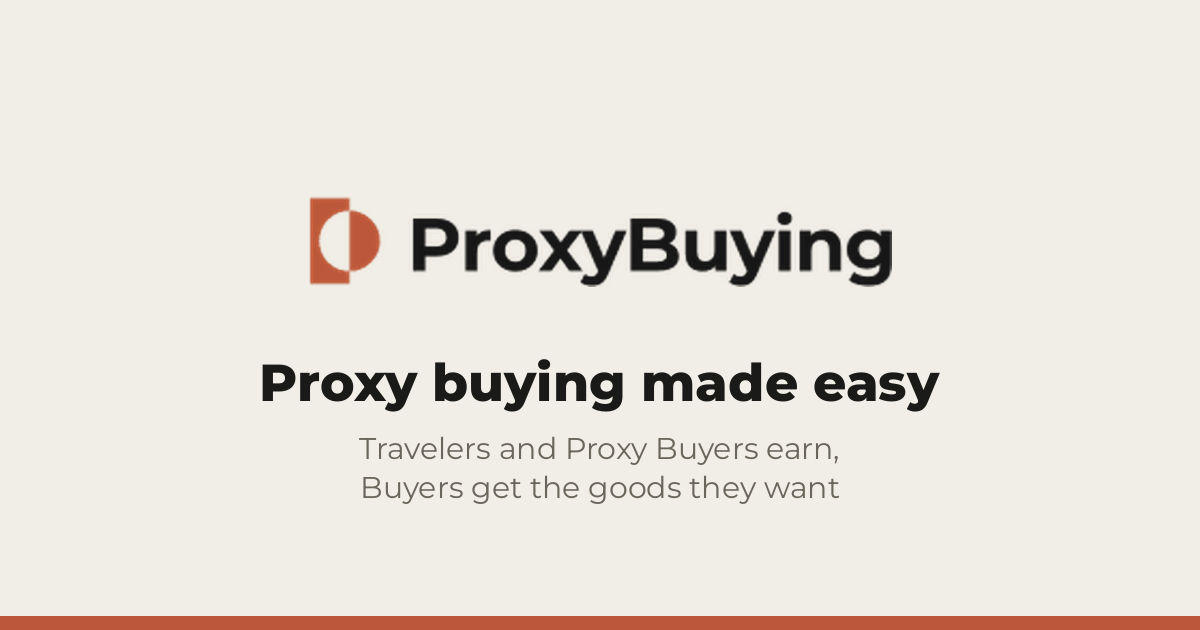
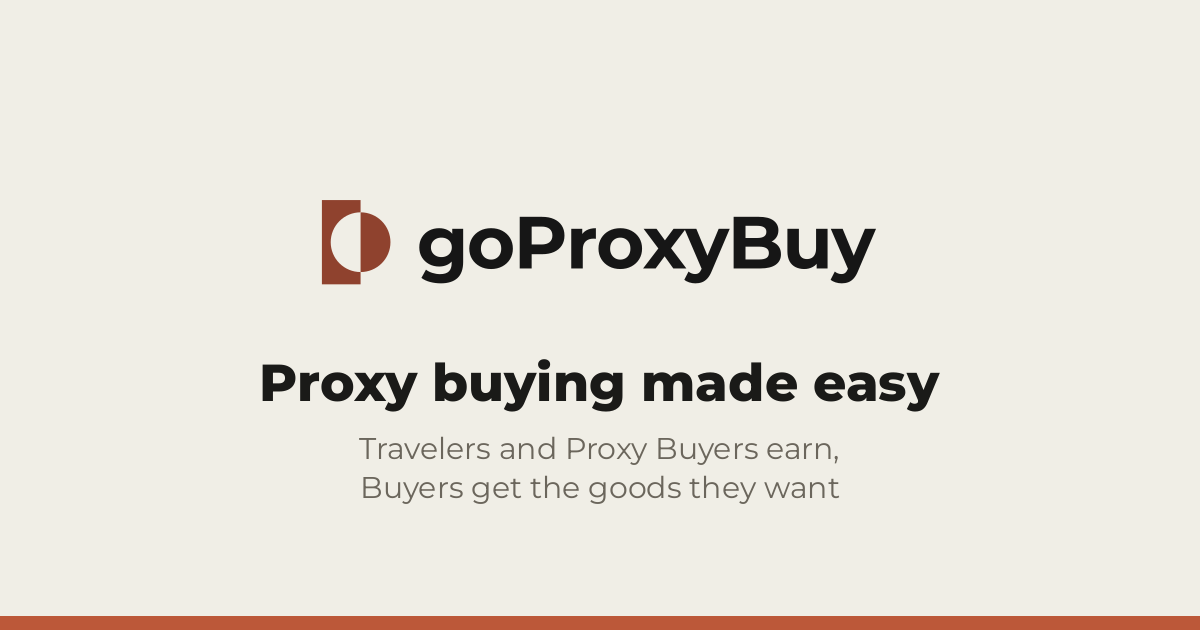
rebrand: admin header + OG link-preview image ProxyBuying -> goProxyBuy
- config/unfold.py: SITE_TITLE/SITE_HEADER now goProxyBuy (admin top-left)
- static/img/og-default.png: swap ProxyBuying wordmark for the goProxyBuy logo
  (kept the same layout/copy). Replaced in place so collectstatic re-hashes the
  URL and busts WhatsApp/OG scraper caches. This OG image predated the 11-Jul
  rebrand and was missed then.

Changed region(s): [[0.2467, 0.3016, 0.7708, 0.4524]]

diff --git a/config/unfold.py b/config/unfold.py
@@ -9,8 +9,8 @@ from django.urls import reverse_lazy
 from django.utils.translation import gettext_lazy as _
 
 UNFOLD = {
-    "SITE_TITLE": "ProxyBuying Admin",
-    "SITE_HEADER": "ProxyBuying",
+    "SITE_TITLE": "goProxyBuy Admin",
+    "SITE_HEADER": "goProxyBuy",
     "SITE_SUBHEADER": "Proxy purchasing platform",
     "SITE_URL": "/",
     "SHOW_HISTORY": True,
